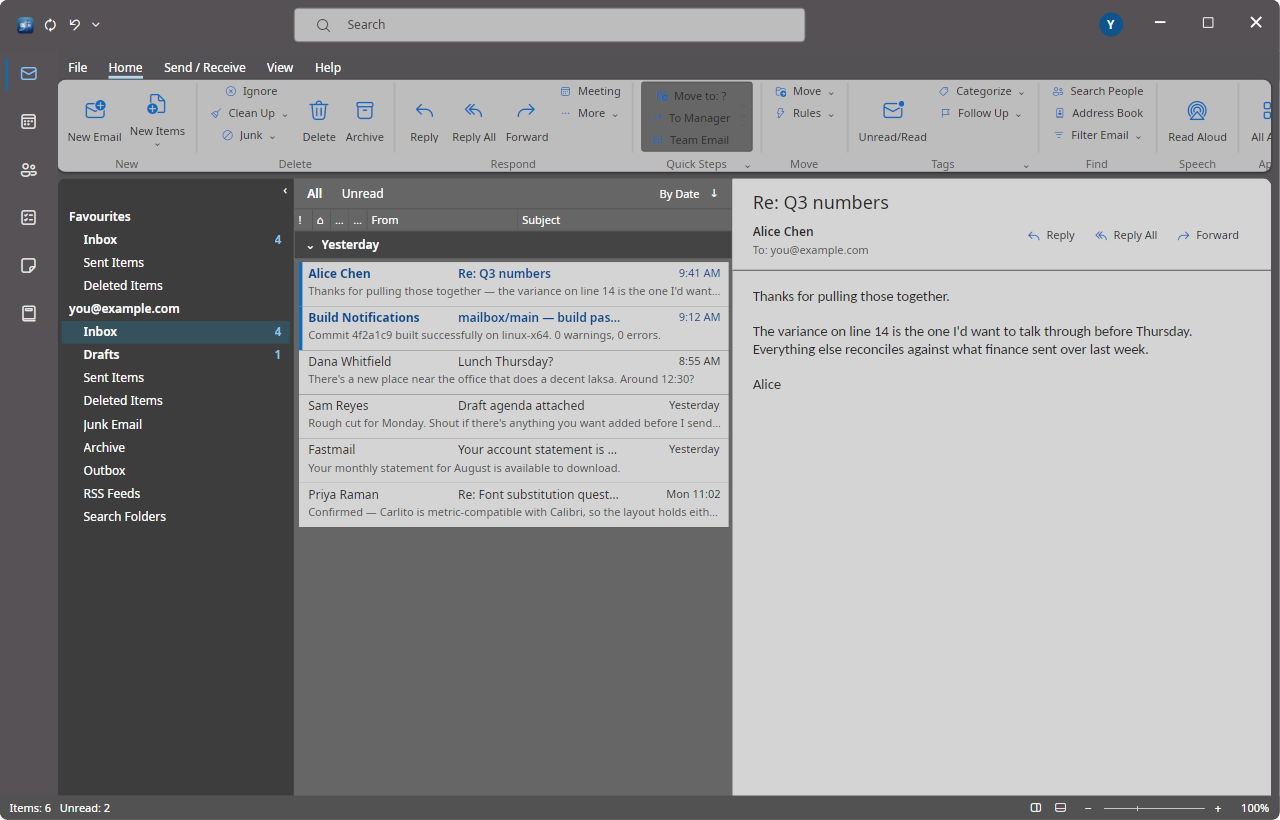
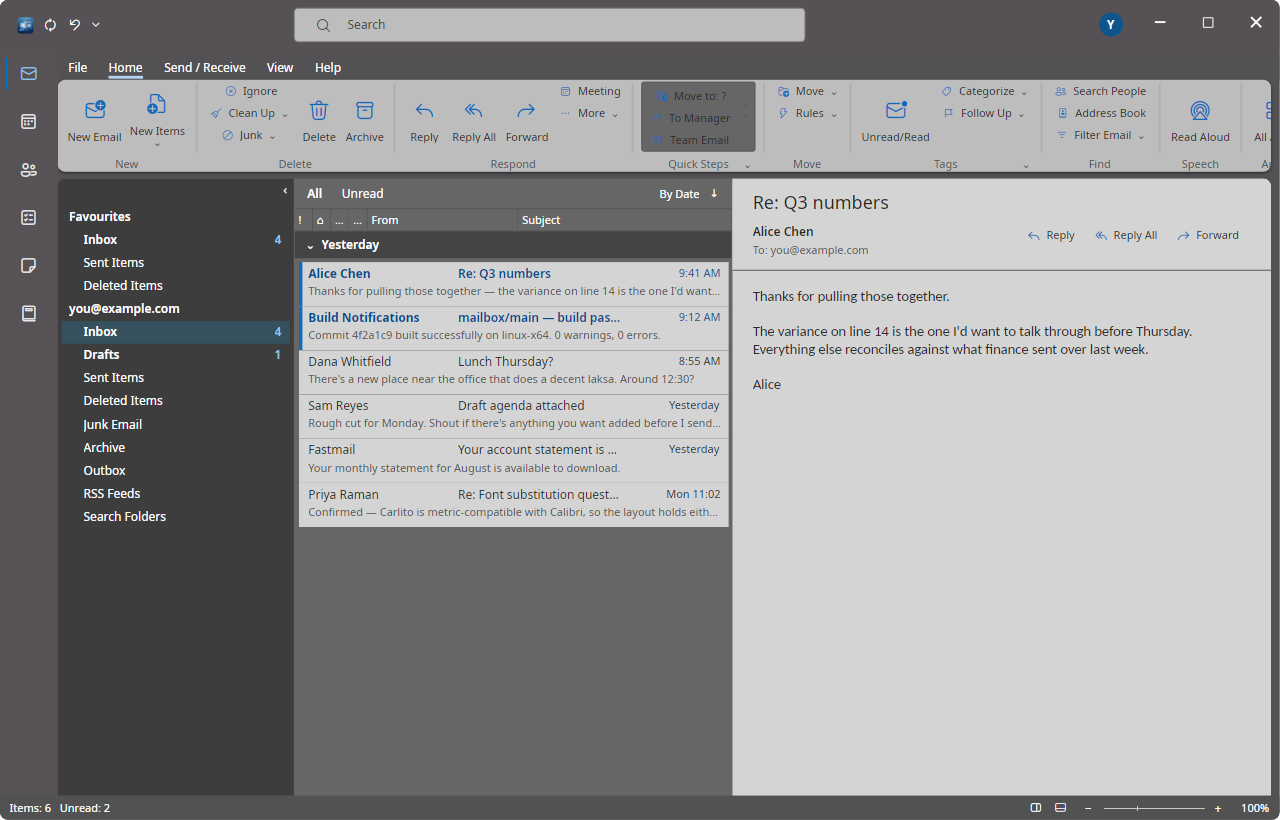
Wire the last of the ribbon's inert controls
The overflow button opens a real menu: the commands this tab owns that
its row has no room for, plus everything the default layout leaves out.
A tab whose row already shows everything says so rather than opening
onto nothing.

Gallery entries now scroll inside their box, driven by the chevrons that
were drawn beside them and did nothing, and the third glyph opens the
gallery as a menu for when scrolling is the slower way.

Group dialog launchers are buttons rather than glyphs, routing their
command. The dialogs behind them are Phase 8, but the control now
behaves like a control and gives hover.

Also corrects the Options counts, which were estimated: 132 persistable
settings, 9 buttons, 2 live slots — not the 141 previously claimed.

diff --git a/src/Mailbox.Controls.Ribbon/RibbonView.cs b/src/Mailbox.Controls.Ribbon/RibbonView.cs
@@ -256,7 +256,9 @@ public sealed class RibbonView : ContentControl
             Orientation = Orientation.Horizontal,
             VerticalAlignment = VerticalAlignment.Center,
         };
-        trailing.Children.Add(BuildGlyphButton("more", "More commands", 16, () => { }));
+        var overflow = BuildGlyphButton("more", "More commands", 16, () => { });
+        overflow.Flyout = BuildOverflowMenu(tab);
+        trailing.Children.Add(overflow);
 
         var chevron = BuildGlyphButton("chevron-down", "Ribbon Display Options", 14, () => { });
         chevron.HorizontalAlignment = HorizontalAlignment.Right;
@@ -336,6 +338,54 @@ public sealed class RibbonView : ContentControl
     /// The Ribbon Display Options menu behind the chevron: a Ribbon Layout section choosing
     /// Classic or Simplified, then a Show Ribbon section. Ticks mark the active choice.
     /// </summary>
+    /// <summary>
+    /// The commands this tab owns that its row has no room for, plus everything the default
+    /// layout leaves out entirely. Empty is a real answer — a tab whose row already shows
+    /// everything gets a disabled note rather than a menu that opens onto nothing.
+    /// </summary>
+    private MenuFlyout BuildOverflowMenu(RibbonTab tab)
+    {
+        var shown = (_layout.SimplifiedRows.TryGetValue(tab.Id, out var row) ? row : [])
+            .Where(i => i.Kind != RibbonItemKind.Separator)
+            .Select(i => i.Command)
+            .ToHashSet();
+
+        var hidden = tab.Groups
+            .SelectMany(g => g.Items)
+            .Where(i => i.Kind != RibbonItemKind.Separator && !shown.Contains(i.Command))
+            .Select(i => i.Command)
+            .Distinct()
+            .Concat(_catalog.BeyondDefaultLayout.Select(c => c.Id))
+            .Distinct()
+            .Where(id => _catalog.TryGet(id, out _))
+            .ToList();
+
+        var flyout = new MenuFlyout { Placement = PlacementMode.BottomEdgeAlignedRight };
+
+        if (hidden.Count == 0)
+        {
+            flyout.ItemsSource = new[]
+            {
+                new MenuItem { Header = "Nothing further on this tab", IsEnabled = false },
+            };
+            return flyout;
+        }
+
+        flyout.ItemsSource = hidden
+            .Select(id => _catalog.Get(id))
+            .OrderBy(c => c.Label, StringComparer.CurrentCulture)
+            .Select(command =>
+            {
+                var item = new MenuItem { Header = command.Label };
+                item.Click += (_, _) =>
+                    CommandInvoked?.Invoke(this, new RibbonCommandEventArgs(command.Id));
+                return item;
+            })
+            .ToList();
+
+        return flyout;
+    }
+
     private MenuFlyout BuildDisplayOptionsMenu()
     {
         var flyout = new MenuFlyout { Placement = PlacementMode.BottomEdgeAlignedRight };
@@ -551,6 +601,41 @@ public sealed class RibbonView : ContentControl
         return row;
     }
 
+    private Button GalleryArrow(string glyph, string tip, Action onClick)
+    {
+        var text = new TextBlock
+        {
+            Text = IconGlyphs.GetOrEmpty(glyph, 16),
+            FontFamily = IconFont.Family,
+            FontSize = 8,
+            HorizontalAlignment = HorizontalAlignment.Center,
+        };
+        Bind(text, TextBlock.ForegroundProperty, "text.secondary.brush");
+
+        var button = new Button { Content = text, Classes = { "flat" }, Padding = new Thickness(2, 0) };
+        ToolTip.SetTip(button, tip);
+        button.Click += (_, _) => onClick();
+        return button;
+    }
+
+    /// <summary>Every command in the gallery, for when scrolling to one is the slower way.</summary>
+    private MenuFlyout BuildGalleryMenu(RibbonGroup group)
+    {
+        var flyout = new MenuFlyout { Placement = PlacementMode.BottomEdgeAlignedLeft };
+        flyout.ItemsSource = group.Items
+            .Where(i => i.Kind != RibbonItemKind.Separator && _catalog.TryGet(i.Command, out _))
+            .Select(i => _catalog.Get(i.Command))
+            .Select(command =>
+            {
+                var item = new MenuItem { Header = command.Label };
+                item.Click += (_, _) =>
+                    CommandInvoked?.Invoke(this, new RibbonCommandEventArgs(command.Id));
+                return item;
+            })
+            .ToList();
+        return flyout;
+    }
+
     /// <summary>
     /// A gallery: the group's entries stacked inside a bordered, differently-shaded box with a
     /// scroll chevron down its right edge. the reference's Quick Steps is the canonical example.
@@ -567,28 +652,33 @@ public sealed class RibbonView : ContentControl
             }
         }
 
+        // The entries scroll inside the box; the chevrons drive that scroller and the third
+        // glyph opens the whole gallery as a menu. Drawn as glyphs they did nothing at all.
+        var viewer = new ScrollViewer
+        {
+            Content = entries,
+            VerticalScrollBarVisibility = ScrollBarVisibility.Hidden,
+            HorizontalScrollBarVisibility = ScrollBarVisibility.Disabled,
+            MaxHeight = RibbonMetrics.BodyHeight - 28,
+        };
+
         var scroll = new StackPanel
         {
             Orientation = Orientation.Vertical,
             VerticalAlignment = VerticalAlignment.Center,
             Margin = new Thickness(2, 0),
         };
-        foreach (var glyph in (string[])["chevron-up", "chevron-down", "more"])
-        {
-            var arrow = new TextBlock
-            {
-                Text = IconGlyphs.GetOrEmpty(glyph, 16),
-                FontFamily = IconFont.Family,
-                FontSize = 8,
-                HorizontalAlignment = HorizontalAlignment.Center,
-            };
-            Bind(arrow, TextBlock.ForegroundProperty, "text.secondary.brush");
-            scroll.Children.Add(arrow);
-        }
+
+        scroll.Children.Add(GalleryArrow("chevron-up", "Scroll up", () => viewer.LineUp()));
+        scroll.Children.Add(GalleryArrow("chevron-down", "Scroll down", () => viewer.LineDown()));
+
+        var all = GalleryArrow("more", $"All {group.Label} commands", () => { });
+        all.Flyout = BuildGalleryMenu(group);
+        scroll.Children.Add(all);
 
         var inner = new Grid { ColumnDefinitions = new ColumnDefinitions("*,Auto") };
-        Grid.SetColumn(entries, 0);
-        inner.Children.Add(entries);
+        Grid.SetColumn(viewer, 0);
+        inner.Children.Add(viewer);
         Grid.SetColumn(scroll, 1);
         inner.Children.Add(scroll);
 
@@ -619,17 +709,24 @@ public sealed class RibbonView : ContentControl
 
         if (group.DialogLauncher is null) return label;
 
-        // the reference application puts a small arrow in the group's bottom-right corner that opens its
-        // full options dialog.
-        var launcher = new TextBlock
+        // The reference puts a small arrow in the group's bottom-right corner that opens the
+        // group's full options dialog. A button, not a glyph: it was drawn as text and so did
+        // nothing and gave no hover, which is exactly what makes a control look broken.
+        var launcher = new Button
         {
-            Text = "⌄",
+            Content = "⌄",
+            Classes = { "flat" },
             HorizontalAlignment = HorizontalAlignment.Right,
             VerticalAlignment = VerticalAlignment.Center,
             Margin = new Thickness(0, 0, 2, 0),
         };
-        Bind(launcher, TextBlock.ForegroundProperty, "ribbon.group.label.brush");
-        Bind(launcher, TextBlock.FontSizeProperty, "type.ui.size.small.value");
+        Bind(launcher, TemplatedControl.ForegroundProperty, "ribbon.group.label.brush");
+        Bind(launcher, TemplatedControl.FontSizeProperty, "type.ui.size.small.value");
+        ToolTip.SetTip(launcher, $"{group.Label} options");
+
+        var opens = group.DialogLauncher.Value;
+        launcher.Click += (_, _) =>
+            CommandInvoked?.Invoke(this, new RibbonCommandEventArgs(opens));
 
         var panel = new Grid();
         panel.Children.Add(label);
